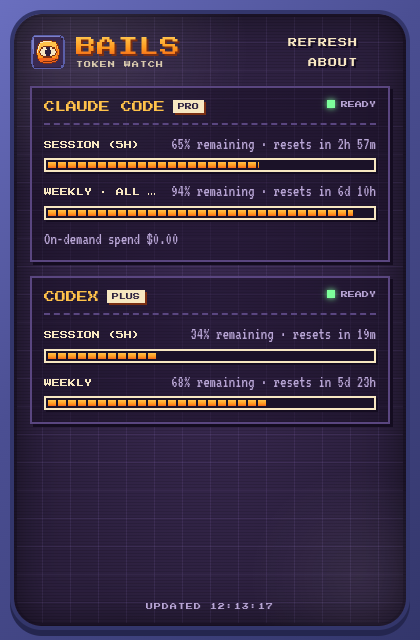
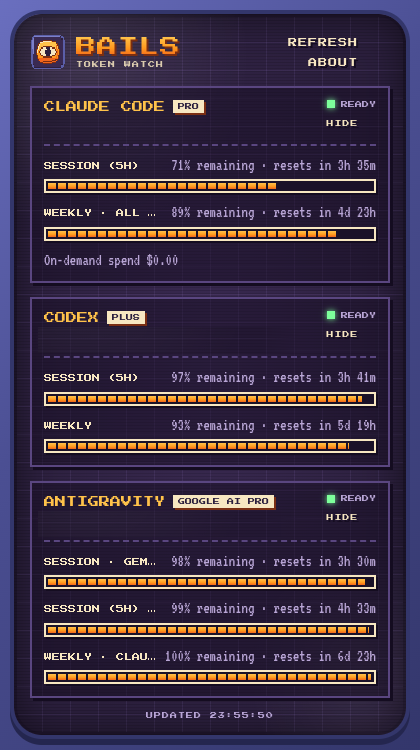
fix: restore full-height history chart and portable agy path test
The history window lost its full height when the main window started
fitting its content; give it back to the history view only. The agy
renewal test compared a POSIX path and failed on Windows CI. Also
refresh the README screenshot with the Antigravity card, emails masked.

diff --git a/src/main/usage/usage.test.ts b/src/main/usage/usage.test.ts
@@ -1,4 +1,5 @@
 import { describe, expect, it } from "vitest";
+import { join } from "node:path";
 import { CommandNotFoundError } from "./exec";
 import {
   AGY_RETRY_MS,
@@ -186,7 +187,7 @@ describe("antigravity", () => {
     const snap = await createAntigravityProvider().fetchSnapshot(ctx);
     expect(snap.status).toBe("ok");
     // ~/.local/bin/agy is missing in this test, so it falls back to agy on the PATH.
-    expect(commands).toEqual(["/home/x/.local/bin/agy models", "agy models"]);
+    expect(commands).toEqual([`${join("/home/x", ".local", "bin", "agy")} models`, "agy models"]);
     expect(new Set(tokens)).toEqual(new Set(["Bearer new"]));
   });
 

diff --git a/src/renderer/src/styles.css b/src/renderer/src/styles.css
@@ -228,7 +228,8 @@ body {
 .card-side .btn.small { padding: 0; }
 
 /* History window */
-.history { gap: 12px; }
+/* The history window fills its window (the main window instead fits its content). */
+.history { gap: 12px; min-height: 100%; }
 .history-head { display: flex; align-items: center; justify-content: space-between; gap: 10px; flex-wrap: wrap; }
 .history-title h1 { font-size: 14px; }
 .range { display: flex; gap: 2px; }

diff --git a/README.md b/README.md
@@ -15,7 +15,7 @@ fenêtres de rate-limit, % restant et compte à rebours avant reset.
 ![Vitest](https://img.shields.io/badge/tests-vitest-2b1f3d?style=for-the-badge&logo=vitest&logoColor=ffc24a)
 [![License: MIT](https://img.shields.io/badge/license-MIT-2b1f3d?style=for-the-badge&logoColor=ffc24a)](LICENSE)
 
-<img src="docs/screenshot.png" alt="Capture d'écran de Bails : cartes Claude Code et Codex avec jauges de quota pixelisées" width="420" />
+<img src="docs/screenshot.png" alt="Capture d'écran de Bails : cartes Claude Code, Codex et Antigravity avec jauges de quota pixelisées" width="420" />
 
 </div>
 
